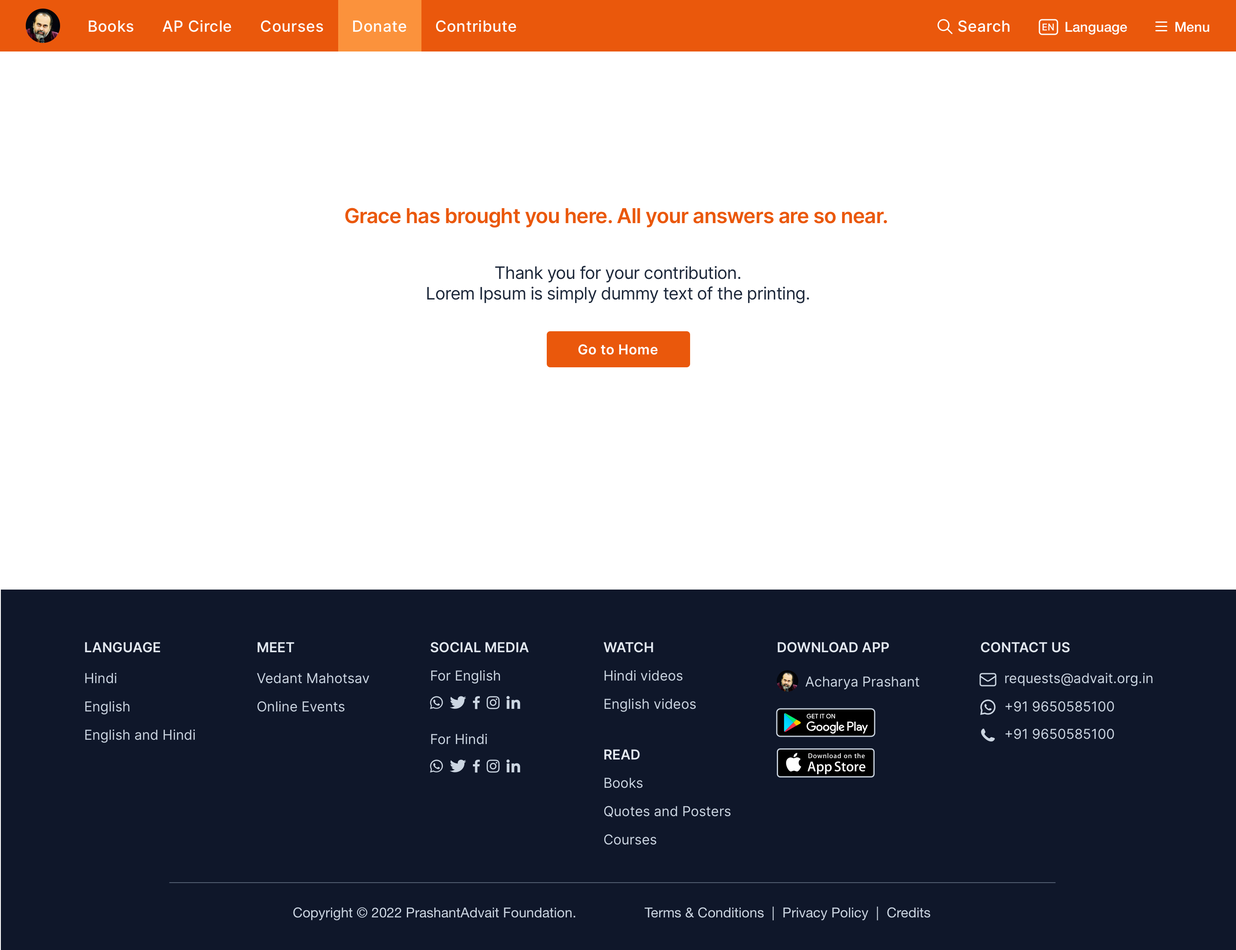
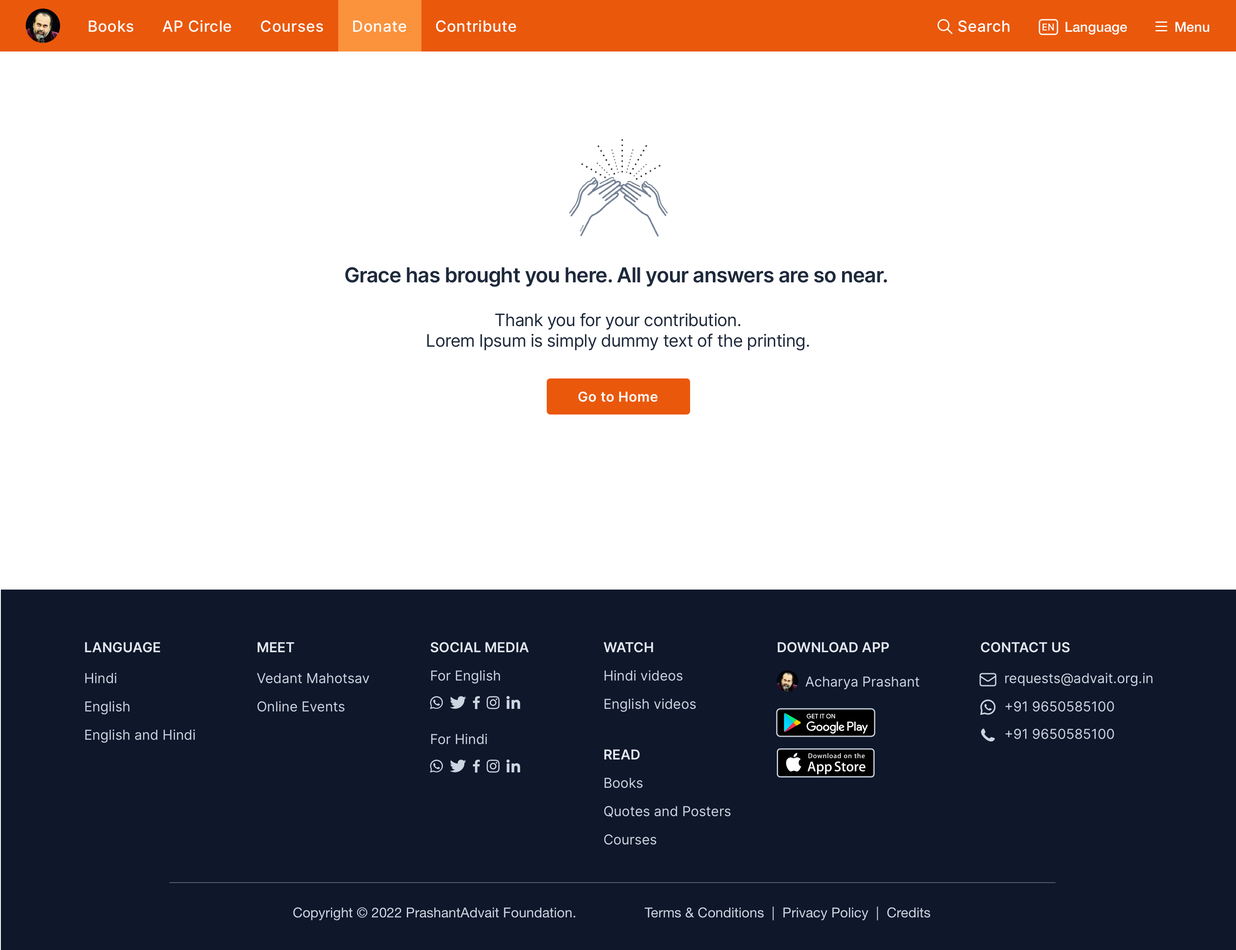
Refactoring donation confirmation page

Changed region(s): [[0.2812, 0.2805, 0.7188, 0.4363], [0.2812, 0.187, 0.7188, 0.2493]]

diff --git a/Website/Projects/Main Website/Desktop/DonationConfirmation/data/handoff.js b/Website/Projects/Main Website/Desktop/DonationConfirmation/data/handoff.js
@@ -1,2 +1,2 @@
 const SYMBOLS_DICT = {};
-const TOKENS_DICT = {};var layersData = [{"ii":0,"tp":"Artboard","nextLinkIndex":0,"artboardType":0,"isModal":false,"disableFixedLayers":false,"overlayOverFixed":false,"overlayAlsoFixed":true,"overlayClosePrevOverlay":false,"transAnimType":0,"overlayByEvent":0,"oldOverlayAlign":0,"overlayPin":0,"overlayPinHotspot":0,"overlayPinPage":0,"index":0,"x":6648,"y":14155,"w":1440,"h":1107,"c":[{"ii":1,"tp":"Group","x":0,"y":0,"w":1440,"h":60,"c":[{"ii":2,"tp":"Group","x":0,"y":0,"w":1440,"h":60,"c":[{"ii":3,"tp":"ShapePath","x":0,"y":0,"w":1440,"h":60,"n":"Rectangle","pr":"background-color: #EA580C;\n"},{"ii":4,"tp":"Group","x":1346,"y":21,"w":64,"h":19,"c":[{"ii":5,"tp":"Text","x":1368,"y":21,"w":42,"h":19,"n":"Menu","tx":"Menu","pr":"font-family: Helvetica Neue;\nfont-size: 16px;\ncolor: #FFFFFF;\ntext-align: center;\nvertical-align: top;\nfont-weight: 500;\n"},{"ii":6,"tp":"ShapePath","x":1346,"y":25,"w":14,"h":11.5,"n":"ic_menu","pr":"background-color: #FFFFFF;\n"}],"n":"Group 3"},{"ii":7,"tp":"Group","x":1211,"y":21,"w":103,"h":19,"c":[{"ii":8,"tp":"Text","x":1240,"y":21,"w":74,"h":19,"n":"Language","tx":"Language","pr":"font-family: Helvetica Neue;\nfont-size: 16px;\ncolor: #FFFFFF;\ntext-align: center;\nvertical-align: top;\nfont-weight: 500;\n"},{"ii":9,"tp":"ShapePath","x":1211,"y":23,"w":21,"h":17,"n":"Rectangle","pr":"border-color: #FFFFFF;\nborder-width: 1.5px;\nborder-radius: 3px;\n"},{"ii":10,"tp":"Text","x":1213.5,"y":24.5,"w":16,"h":14,"n":"EN","tx":"EN","pr":"font-family: SF Compact Display;\nfont-size: 12px;\ncolor: #FFFFFF;\ntext-align: center;\nvertical-align: top;\nfont-weight: 500;\nletter-spacing: 0.244898px;\n"}],"n":"Group 35"},{"ii":11,"tp":"Group","x":1093,"y":20,"w":85.5,"h":21,"c":[{"ii":12,"tp":"ShapePath","x":1093,"y":23,"w":16,"h":16,"n":"Shape","pr":"border-color: #FFFFFF;\nborder-width: 1.5px;\nborder-line-end: round;\nborder-line-join: round;\n"},{"ii":13,"tp":"Text","x":1115.5,"y":20,"w":63,"h":21,"n":"Search","tx":"Search","pr":"font-family: Inter;\nfont-size: 18px;\ncolor: #FFFFFF;\ntext-align: center;\nvertical-align: top;\nfont-weight: 500;\nletter-spacing: 0.3673469px;\n"}],"n":"Group 81"},{"ii":14,"tp":"Group","x":30,"y":10,"w":573,"h":40,"c":[{"ii":15,"tp":"Image","x":30,"y":10,"w":40,"h":40,"c":[{"ii":16,"tp":"ShapePath","x":30,"y":10,"w":40,"h":40,"n":"Mask","pr":"background-color: #071930;\nborder-radius: 96px;\n"},{"ii":17,"tp":"Image","x":30,"y":10,"w":40,"h":40,"n":"Logo Image","hd":true}],"n":"ic_launcher_round","iu":"images/donationconfirmation--0.png"},{"ii":18,"tp":"Text","x":102,"y":20,"w":55,"h":21,"n":"Books","tx":"Books","pr":"font-family: Inter;\nfont-size: 18px;\ncolor: #FFFFFF;\ntext-align: center;\nvertical-align: top;\nfont-weight: 500;\nletter-spacing: 0.3673469px;\n"},{"ii":19,"tp":"Text","x":189,"y":20,"w":82,"h":21,"n":"AP Circle","tx":"AP Circle","pr":"font-family: Inter;\nfont-size: 18px;\ncolor: #FFFFFF;\ntext-align: center;\nvertical-align: top;\nfont-weight: 500;\nletter-spacing: 0.3673469px;\n"},{"ii":20,"tp":"Text","x":303,"y":20,"w":75,"h":21,"n":"Courses","tx":"Courses","pr":"font-family: Inter;\nfont-size: 18px;\ncolor: #FFFFFF;\ntext-align: center;\nvertical-align: top;\nfont-weight: 500;\nletter-spacing: 0.3673469px;\n"},{"ii":21,"tp":"Text","x":507,"y":20,"w":96,"h":21,"n":"Contribute","tx":"Contribute","pr":"font-family: Inter;\nfont-size: 18px;\ncolor: #FFFFFF;\ntext-align: center;\nvertical-align: top;\nfont-weight: 500;\nletter-spacing: 0.3673469px;\n"}],"n":"Group 9"}],"n":"Group 42"}],"n":"Group 5"},{"ii":22,"tp":"ShapePath","x":394,"y":0,"w":97,"h":60,"n":"Rectangle","pr":"background-color: #FB923C;\n"},{"ii":23,"tp":"Text","x":410,"y":20,"w":65,"h":21,"n":"Donate","tx":"Donate","pr":"font-family: Inter;\nfont-size: 18px;\ncolor: #FFFFFF;\ntext-align: center;\nvertical-align: top;\nfont-weight: 500;\nletter-spacing: 0.3673469px;\n"},{"ii":24,"tp":"Text","x":401,"y":237,"w":638,"h":29,"n":"Grace has brought yo","tx":"Grace has brought you here. All your answers are so near.   ","pr":"font-family: Inter;\nfont-size: 24px;\ncolor: #EA580C;\nvertical-align: top;\nfont-weight: 600;\nletter-spacing: -0.5788235px;\n"},{"ii":25,"tp":"Text","x":496,"y":306,"w":448,"h":48,"n":"Thank you for your c","tx":"Thank you for your contribution.\nLorem Ipsum is simply dummy text of the printing.","pr":"font-family: Inter;\nfont-size: 20px;\ncolor: #1E293B;\ntext-align: center;\nvertical-align: top;\nfont-weight: 400;\nletter-spacing: -0.4823529px;\n"},{"ii":26,"tp":"Group","x":637,"y":386,"w":167,"h":42,"c":[{"ii":27,"tp":"ShapePath","x":637,"y":386,"w":167,"h":42,"n":"Rectangle","pr":"background-color: #EA580C;\nborder-radius: 4px;\n"},{"ii":28,"tp":"Text","x":673,"y":397,"w":95,"h":20,"n":"Go to Home","tx":"Go to Home","pr":"font-family: Inter;\nfont-size: 16px;\ncolor: #FFFFFF;\nvertical-align: top;\nfont-weight: 600;\nletter-spacing: 0.3265306px;\n"}],"n":"Group 4"},{"ii":29,"tp":"Group","x":1,"y":687,"w":1440,"h":420,"c":[{"ii":30,"tp":"ShapePath","x":1,"y":687,"w":1440,"h":420,"n":"Rectangle","pr":"background-color: #0F172A;\n"},{"ii":31,"tp":"Group","x":98,"y":744,"w":1246,"h":328,"c":[{"ii":32,"tp":"Group","x":98,"y":744,"w":1246,"h":328,"c":[{"ii":33,"tp":"Text","x":341,"y":1054,"w":335,"h":18,"n":"Copyright © 2022 Pra","tx":"Copyright © 2022 PrashantAdvait Foundation. ","pr":"font-family: Helvetica Neue;\nfont-size: 16px;\ncolor: #CBD5E1;\nvertical-align: top;\nfont-weight: 400;\n"},{"ii":34,"tp":"Text","x":751,"y":1054,"w":334,"h":18,"n":"Terms & Conditions |","tx":"Terms & Conditions  |  Privacy Policy  |  Credits","pr":"font-family: Helvetica Neue;\nfont-size: 16px;\ncolor: #CBD5E1;\nvertical-align: top;\nfont-weight: 400;\n"},{"ii":35,"tp":"Group","x":905,"y":826,"w":114,"h":32,"c":[{"ii":36,"tp":"ShapePath","x":905,"y":826,"w":114,"h":32,"n":"Path","pr":"background-color: #000000;\nborder-color: #CBD5E1;\nborder-width: 1.4px;\n"},{"ii":37,"tp":"ShapePath","x":939.96,"y":831.8649999999998,"w":32.76444444444405,"h":5.270000000000437,"n":"Shape","pr":"background-color: #FFFFFF;\nborder-color: #FFFFFF;\nborder-width: 0.2px;\n"},{"ii":38,"tp":"ShapePath","x":939.7066666666669,"y":840.5349999999999,"w":71.4399999999996,"h":14.364999999999782,"n":"Shape","pr":"background-color: #FFFFFF;\n"},{"ii":39,"tp":"Group","x":913.4444444444443,"y":831.0751120325476,"w":19.46444444444478,"h":21.880150214452442,"c":[{"ii":40,"tp":"ShapePath","x":913.4444444444453,"y":831.375,"w":10.977777777778101,"h":21.25,"n":"Path","pr":"background-color: linear-gradient(242.527deg,#00A0FF 0% ,#00A1FF 0.7000000000000001% ,#00BEFF 26% ,#00D2FF 51.2% ,#00DFFF 76% ,#00E3FF 100%);\n"},{"ii":41,"tp":"ShapePath","x":924.3377777777778,"y":838.4300000000003,"w":8.57111111111135,"h":7.225000000000364,"n":"Path","pr":"background-color: linear-gradient(270.000deg,#FFE000 0% ,#FFBD00 40.9% ,#FFA500 77.5% ,#FF9C00 100%);\n"},{"ii":42,"tp":"ShapePath","x":913.7822222222221,"y":842,"w":14.102222222221826,"h":10.955262246998245,"n":"Path","pr":"background-color: linear-gradient(217.660deg,#FF3A44 0% ,#C31162 100%);\n"},{"ii":43,"tp":"ShapePath","x":913.7822222222221,"y":831.09558343748,"w":14.102222222221826,"h":10.904416562520055,"n":"Path","pr":"background-color: linear-gradient(142.469deg,#32A071 0% ,#2DA771 6.9% ,#15CF74 47.599999999999994% ,#06E775 80.10000000000001% ,#00F076 100%);\n"},{"ii":44,"tp":"ShapePath","x":913.7822222222221,"y":845.4850000000006,"w":14.017777777778065,"h":7.427755025666556,"n":"Path","pr":"background-color: #000000;\nopacity: 0.2;\n"},{"ii":45,"tp":"ShapePath","x":913.4444444444443,"y":842,"w":19.422222222222445,"h":10.540000000000873,"n":"Shape","pr":"background-color: #000000;\nopacity: 0.12;\n"},{"ii":46,"tp":"ShapePath","x":913.4444444444443,"y":831.0751120325476,"w":19.422222222222445,"h":10.924887967454197,"n":"Path","pr":"background-color: #FFFFFF;\nopacity: 0.25;\n"}],"n":"Group 18"}],"n":"ic_googleplay"},{"ii":47,"tp":"Group","x":905.7519621721376,"y":872.7567080947265,"w":112.49185114913962,"h":32.485735392019706,"c":[{"ii":48,"tp":"ShapePath","x":905.7519621721376,"y":872.7567080947265,"w":112.49185114913962,"h":32.485735392019706,"n":"Path","pr":"background-color: #000000;\nborder-color: #CBD5E1;\nborder-width: 1.4px;\n"},{"ii":49,"tp":"ShapePath","x":915.8078968362724,"y":877.2859036234968,"w":17.53685254672746,"h":21.69079558923295,"n":"Shape","pr":"background-color: #FFFFFF;\n"},{"ii":50,"tp":"ShapePath","x":940.8491628806687,"y":877.5715821851009,"w":67.36203491728156,"h":24.522443672010922,"n":"Combined Shape","pr":"background-color: #FFFFFF;\n"}],"n":"ic_appstotre"},{"ii":51,"tp":"Text","x":703,"y":777,"w":94,"h":20,"n":"Hindi videos","tx":"Hindi videos","pr":"font-family: Inter;\nfont-size: 16px;\ncolor: #CBD5E1;\nvertical-align: top;\nfont-weight: 400;\n"},{"ii":52,"tp":"Group","x":905,"y":781,"w":167,"h":25,"c":[{"ii":53,"tp":"Text","x":938,"y":784,"w":134,"h":20,"n":"Acharya Prashant","tx":"Acharya Prashant","pr":"font-family: Inter;\nfont-size: 16px;\ncolor: #CBD5E1;\nvertical-align: top;\nfont-weight: 400;\n"},{"ii":54,"tp":"Image","x":905,"y":781,"w":25,"h":25,"c":[{"ii":55,"tp":"ShapePath","x":905,"y":781,"w":25,"h":25,"n":"Mask","pr":"background-color: #071930;\nborder-radius: 12.48px;\n"},{"ii":56,"tp":"Image","x":905,"y":781,"w":25,"h":25,"n":"Logo Image","hd":true}],"n":"ic_aplogo_image","iu":"images/donationconfirmation--1.png"}],"n":"Group 16"},{"ii":57,"tp":"Text","x":703,"y":902,"w":47,"h":20,"n":"Books","tx":"Books","pr":"font-family: Inter;\nfont-size: 16px;\ncolor: #CBD5E1;\nvertical-align: top;\nfont-weight: 400;\n"},{"ii":58,"tp":"Text","x":703,"y":935,"w":150,"h":20,"n":"Quotes and Posters","tx":"Quotes and Posters","pr":"font-family: Inter;\nfont-size: 16px;\ncolor: #CBD5E1;\nvertical-align: top;\nfont-weight: 400;\n"},{"ii":59,"tp":"Text","x":703,"y":968,"w":63,"h":20,"n":"Courses","tx":"Courses","pr":"font-family: Inter;\nfont-size: 16px;\ncolor: #CBD5E1;\nvertical-align: top;\nfont-weight: 400;\n"},{"ii":60,"tp":"Text","x":703,"y":810,"w":109,"h":20,"n":"English videos","tx":"English videos","pr":"font-family: Inter;\nfont-size: 16px;\ncolor: #CBD5E1;\nvertical-align: top;\nfont-weight: 400;\n"},{"ii":61,"tp":"Group","x":501,"y":811,"w":105.00000000184264,"h":15.238484611703825,"c":[{"ii":62,"tp":"ShapePath","x":551,"y":811.238484611702,"w":8,"h":15,"n":"Path","pr":"background-color: #CBD5E1;\n"},{"ii":63,"tp":"ShapePath","x":501,"y":811.238484611702,"w":15,"h":15,"n":"Combined Shape","pr":"background-color: #CBD5E1;\n"},{"ii":64,"tp":"ShapePath","x":567,"y":811.238484611702,"w":15,"h":15,"n":"Combined Shape","pr":"background-color: #CBD5E1;\n"},{"ii":65,"tp":"ShapePath","x":523.9999999999991,"y":811.2384846117038,"w":19.066666666666606,"h":14.66666666666606,"n":"Combined Shape","pr":"background-color: #CBD5E1;\n"},{"ii":66,"tp":"ShapePath","x":590.0000000018426,"y":811,"w":16,"h":15,"n":"Combined Shape","pr":"background-color: #CBD5E1;\n"}],"n":"Group 13"},{"ii":67,"tp":"Group","x":501,"y":885,"w":105.00000000184264,"h":15.238484611703825,"c":[{"ii":68,"tp":"ShapePath","x":551,"y":885.238484611702,"w":8,"h":15,"n":"Path Copy","pr":"background-color: #CBD5E1;\n"},{"ii":69,"tp":"ShapePath","x":501,"y":885.238484611702,"w":15,"h":15,"n":"Combined Shape","pr":"background-color: #CBD5E1;\n"},{"ii":70,"tp":"ShapePath","x":567,"y":885.238484611702,"w":15,"h":15,"n":"Combined Shape","pr":"background-color: #CBD5E1;\n"},{"ii":71,"tp":"ShapePath","x":523.9999999999991,"y":885.2384846117038,"w":19.066666666666606,"h":14.66666666666606,"n":"Combined Shape","pr":"background-color: #CBD5E1;\n"},{"ii":72,"tp":"ShapePath","x":590.0000000018426,"y":885,"w":16,"h":15,"n":"Combined Shape","pr":"background-color: #CBD5E1;\n"}],"n":"Group 14"},{"ii":73,"tp":"Text","x":98,"y":744,"w":90,"h":20,"n":"LANGUAGE","tx":"LANGUAGE","pr":"font-family: Inter;\nfont-size: 16px;\ncolor: #E2E8F0;\nvertical-align: top;\nfont-weight: 600;\n"},{"ii":74,"tp":"Text","x":299,"y":744,"w":45,"h":20,"n":"meet","tx":"meet","pr":"font-family: Inter;\nfont-size: 16px;\ncolor: #E2E8F0;\nvertical-align: top;\nfont-weight: 600;\ntext-transform: uppercase;\n"},{"ii":75,"tp":"Text","x":501,"y":744,"w":116,"h":20,"n":"Social media","tx":"Social media","pr":"font-family: Inter;\nfont-size: 16px;\ncolor: #E2E8F0;\nvertical-align: top;\nfont-weight: 600;\ntext-transform: uppercase;\n"},{"ii":76,"tp":"Text","x":703,"y":744,"w":60,"h":20,"n":"watch","tx":"watch","pr":"font-family: Inter;\nfont-size: 16px;\ncolor: #E2E8F0;\nvertical-align: top;\nfont-weight: 600;\ntext-transform: uppercase;\n"},{"ii":77,"tp":"Text","x":905,"y":744,"w":132,"h":20,"n":"Download App","tx":"Download App","pr":"font-family: Inter;\nfont-size: 16px;\ncolor: #E2E8F0;\nvertical-align: top;\nfont-weight: 600;\ntext-transform: uppercase;\n"},{"ii":78,"tp":"Text","x":1142,"y":744,"w":105,"h":20,"n":"Contact us","tx":"Contact us","pr":"font-family: Inter;\nfont-size: 16px;\ncolor: #E2E8F0;\nvertical-align: top;\nfont-weight: 600;\ntext-transform: uppercase;\n"},{"ii":79,"tp":"Text","x":1170,"y":780,"w":174,"h":20,"n":"requests@advait.org.","tx":"requests@advait.org.in","pr":"font-family: Inter;\nfont-size: 16px;\ncolor: #CBD5E1;\nvertical-align: top;\nfont-weight: 400;\n"},{"ii":80,"tp":"Text","x":1170,"y":813,"w":129,"h":20,"n":"+91 9650585100","tx":"+91 9650585100","pr":"font-family: Inter;\nfont-size: 16px;\ncolor: #CBD5E1;\nvertical-align: top;\nfont-weight: 400;\n"},{"ii":81,"tp":"Text","x":1170,"y":845,"w":129,"h":20,"n":"+91 9650585100","tx":"+91 9650585100","pr":"font-family: Inter;\nfont-size: 16px;\ncolor: #CBD5E1;\nvertical-align: top;\nfont-weight: 400;\n"},{"ii":82,"tp":"Text","x":703,"y":869,"w":44,"h":20,"n":"Read","tx":"Read","pr":"font-family: Inter;\nfont-size: 16px;\ncolor: #E2E8F0;\nvertical-align: top;\nfont-weight: 600;\ntext-transform: uppercase;\n"},{"ii":83,"tp":"Text","x":299,"y":780,"w":132,"h":20,"n":"Vedant Mahotsav","tx":"Vedant Mahotsav","pr":"font-family: Inter;\nfont-size: 16px;\ncolor: #CBD5E1;\nvertical-align: top;\nfont-weight: 400;\n"},{"ii":84,"tp":"Text","x":501,"y":777,"w":83,"h":20,"n":"For English","tx":"For English","pr":"font-family: Inter;\nfont-size: 16px;\ncolor: #CBD5E1;\nvertical-align: top;\nfont-weight: 400;\n"},{"ii":85,"tp":"Text","x":501,"y":851,"w":68,"h":20,"n":"For Hindi","tx":"For Hindi","pr":"font-family: Inter;\nfont-size: 16px;\ncolor: #CBD5E1;\nvertical-align: top;\nfont-weight: 400;\n"},{"ii":86,"tp":"Text","x":299,"y":813,"w":104,"h":20,"n":"Online Events","tx":"Online Events","pr":"font-family: Inter;\nfont-size: 16px;\ncolor: #CBD5E1;\nvertical-align: top;\nfont-weight: 400;\n"},{"ii":87,"tp":"Text","x":98,"y":780,"w":39,"h":20,"n":"Hindi","tx":"Hindi","pr":"font-family: Inter;\nfont-size: 16px;\ncolor: #CBD5E1;\nvertical-align: top;\nfont-weight: 400;\n"},{"ii":88,"tp":"Text","x":98,"y":813,"w":55,"h":20,"n":"English","tx":"English","pr":"font-family: Inter;\nfont-size: 16px;\ncolor: #CBD5E1;\nvertical-align: top;\nfont-weight: 400;\n"},{"ii":89,"tp":"Text","x":98,"y":846,"w":131,"h":20,"n":"English and Hindi","tx":"English and Hindi","pr":"font-family: Inter;\nfont-size: 16px;\ncolor: #CBD5E1;\nvertical-align: top;\nfont-weight: 400;\n"},{"ii":90,"tp":"ShapePath","x":197,"y":1028,"w":1033,"h":1,"n":"Line 6","pr":"border-color: #94A3B8;\nborder-width: 0.5px;\nborder-line-end: projecting;\n"}],"n":"Group 22"},{"ii":91,"tp":"Group","x":1143,"y":816,"w":16,"h":16,"c":[{"ii":92,"tp":"ShapePath","x":1143,"y":816,"w":16,"h":16,"n":"Path","pr":"border-color: #CBD5E1;\nborder-width: 1.714285714285714px;\n"},{"ii":93,"tp":"ShapePath","x":1146.9693066363461,"y":820.1344062446842,"w":8.33154714849752,"h":7.731538094270945,"n":"Path","pr":"background-color: #CBD5E1;\n"}],"n":"Group 18"},{"ii":94,"tp":"ShapePath","x":1143,"y":849,"w":16,"h":15,"n":"Path","pr":"background-color: #CBD5E1;\n"},{"ii":95,"tp":"Group","x":1142,"y":785,"w":18,"h":14,"c":[{"ii":96,"tp":"ShapePath","x":1142,"y":788,"w":18,"h":5.596325000000434,"n":"Path","pr":"border-color: #CBD5E1;\nborder-width: 1.5px;\nborder-line-end: round;\nborder-line-join: round;\n"},{"ii":97,"tp":"ShapePath","x":1142,"y":785,"w":18,"h":14,"n":"Path","pr":"border-color: #CBD5E1;\nborder-width: 1.5px;\nborder-line-end: round;\nborder-line-join: round;\n"}],"n":"Group 13"}],"n":"Group 12"}],"n":"Group 11"}],"n":"DonationConfirmation"}]
+const TOKENS_DICT = {};var layersData = [{"ii":0,"tp":"Artboard","nextLinkIndex":0,"artboardType":0,"isModal":false,"disableFixedLayers":false,"overlayOverFixed":false,"overlayAlsoFixed":true,"overlayClosePrevOverlay":false,"transAnimType":0,"overlayByEvent":0,"oldOverlayAlign":0,"overlayPin":0,"overlayPinHotspot":0,"overlayPinPage":0,"index":0,"x":6648,"y":14155,"w":1440,"h":1107,"c":[{"ii":1,"tp":"Group","x":0,"y":0,"w":1440,"h":60,"c":[{"ii":2,"tp":"Group","x":0,"y":0,"w":1440,"h":60,"c":[{"ii":3,"tp":"ShapePath","x":0,"y":0,"w":1440,"h":60,"n":"Rectangle","pr":"background-color: #EA580C;\n"},{"ii":4,"tp":"Group","x":1346,"y":21,"w":64,"h":19,"c":[{"ii":5,"tp":"Text","x":1368,"y":21,"w":42,"h":19,"n":"Menu","tx":"Menu","pr":"font-family: Helvetica Neue;\nfont-size: 16px;\ncolor: #FFFFFF;\ntext-align: center;\nvertical-align: top;\nfont-weight: 500;\n"},{"ii":6,"tp":"ShapePath","x":1346,"y":25,"w":14,"h":11.5,"n":"ic_menu","pr":"background-color: #FFFFFF;\n"}],"n":"Group 3"},{"ii":7,"tp":"Group","x":1211,"y":21,"w":103,"h":19,"c":[{"ii":8,"tp":"Text","x":1240,"y":21,"w":74,"h":19,"n":"Language","tx":"Language","pr":"font-family: Helvetica Neue;\nfont-size: 16px;\ncolor: #FFFFFF;\ntext-align: center;\nvertical-align: top;\nfont-weight: 500;\n"},{"ii":9,"tp":"ShapePath","x":1211,"y":23,"w":21,"h":17,"n":"Rectangle","pr":"border-color: #FFFFFF;\nborder-width: 1.5px;\nborder-radius: 3px;\n"},{"ii":10,"tp":"Text","x":1213.5,"y":24.5,"w":16,"h":14,"n":"EN","tx":"EN","pr":"font-family: SF Compact Display;\nfont-size: 12px;\ncolor: #FFFFFF;\ntext-align: center;\nvertical-align: top;\nfont-weight: 500;\nletter-spacing: 0.244898px;\n"}],"n":"Group 35"},{"ii":11,"tp":"Group","x":1093,"y":20,"w":85.5,"h":21,"c":[{"ii":12,"tp":"ShapePath","x":1093,"y":23,"w":16,"h":16,"n":"Shape","pr":"border-color: #FFFFFF;\nborder-width: 1.5px;\nborder-line-end: round;\nborder-line-join: round;\n"},{"ii":13,"tp":"Text","x":1115.5,"y":20,"w":63,"h":21,"n":"Search","tx":"Search","pr":"font-family: Inter;\nfont-size: 18px;\ncolor: #FFFFFF;\ntext-align: center;\nvertical-align: top;\nfont-weight: 500;\nletter-spacing: 0.3673469px;\n"}],"n":"Group 81"},{"ii":14,"tp":"Group","x":30,"y":10,"w":573,"h":40,"c":[{"ii":15,"tp":"Image","x":30,"y":10,"w":40,"h":40,"c":[{"ii":16,"tp":"ShapePath","x":30,"y":10,"w":40,"h":40,"n":"Mask","pr":"background-color: #071930;\nborder-radius: 96px;\n"},{"ii":17,"tp":"Image","x":30,"y":10,"w":40,"h":40,"n":"Logo Image","hd":true}],"n":"ic_launcher_round","iu":"images/donationconfirmation--0.png"},{"ii":18,"tp":"Text","x":102,"y":20,"w":55,"h":21,"n":"Books","tx":"Books","pr":"font-family: Inter;\nfont-size: 18px;\ncolor: #FFFFFF;\ntext-align: center;\nvertical-align: top;\nfont-weight: 500;\nletter-spacing: 0.3673469px;\n"},{"ii":19,"tp":"Text","x":189,"y":20,"w":82,"h":21,"n":"AP Circle","tx":"AP Circle","pr":"font-family: Inter;\nfont-size: 18px;\ncolor: #FFFFFF;\ntext-align: center;\nvertical-align: top;\nfont-weight: 500;\nletter-spacing: 0.3673469px;\n"},{"ii":20,"tp":"Text","x":303,"y":20,"w":75,"h":21,"n":"Courses","tx":"Courses","pr":"font-family: Inter;\nfont-size: 18px;\ncolor: #FFFFFF;\ntext-align: center;\nvertical-align: top;\nfont-weight: 500;\nletter-spacing: 0.3673469px;\n"},{"ii":21,"tp":"Text","x":507,"y":20,"w":96,"h":21,"n":"Contribute","tx":"Contribute","pr":"font-family: Inter;\nfont-size: 18px;\ncolor: #FFFFFF;\ntext-align: center;\nvertical-align: top;\nfont-weight: 500;\nletter-spacing: 0.3673469px;\n"}],"n":"Group 9"}],"n":"Group 42"}],"n":"Group 5"},{"ii":22,"tp":"ShapePath","x":394,"y":0,"w":97,"h":60,"n":"Rectangle","pr":"background-color: #FB923C;\n"},{"ii":23,"tp":"Text","x":410,"y":20,"w":65,"h":21,"n":"Donate","tx":"Donate","pr":"font-family: Inter;\nfont-size: 18px;\ncolor: #FFFFFF;\ntext-align: center;\nvertical-align: top;\nfont-weight: 500;\nletter-spacing: 0.3673469px;\n"},{"ii":24,"tp":"Text","x":401,"y":306,"w":638,"h":29,"n":"Grace has brought yo","tx":"Grace has brought you here. All your answers are so near.   ","pr":"font-family: Inter;\nfont-size: 24px;\ncolor: #1E293B;\nvertical-align: top;\nfont-weight: 600;\nletter-spacing: -0.5788235px;\n"},{"ii":25,"tp":"Text","x":496,"y":361,"w":448,"h":48,"n":"Thank you for your c","tx":"Thank you for your contribution.\nLorem Ipsum is simply dummy text of the printing.","pr":"font-family: Inter;\nfont-size: 20px;\ncolor: #1E293B;\ntext-align: center;\nvertical-align: top;\nfont-weight: 400;\nletter-spacing: -0.4823529px;\n"},{"ii":26,"tp":"Group","x":637,"y":441,"w":167,"h":42,"c":[{"ii":27,"tp":"ShapePath","x":637,"y":441,"w":167,"h":42,"n":"Rectangle","pr":"background-color: #EA580C;\nborder-radius: 4px;\n"},{"ii":28,"tp":"Text","x":673,"y":452,"w":95,"h":20,"n":"Go to Home","tx":"Go to Home","pr":"font-family: Inter;\nfont-size: 16px;\ncolor: #FFFFFF;\nvertical-align: top;\nfont-weight: 600;\nletter-spacing: 0.3265306px;\n"}],"n":"Group 4"},{"ii":29,"tp":"Group","x":1,"y":687,"w":1440,"h":420,"c":[{"ii":30,"tp":"ShapePath","x":1,"y":687,"w":1440,"h":420,"n":"Rectangle","pr":"background-color: #0F172A;\n"},{"ii":31,"tp":"Group","x":98,"y":744,"w":1246,"h":328,"c":[{"ii":32,"tp":"Group","x":98,"y":744,"w":1246,"h":328,"c":[{"ii":33,"tp":"Text","x":341,"y":1054,"w":335,"h":18,"n":"Copyright © 2022 Pra","tx":"Copyright © 2022 PrashantAdvait Foundation. ","pr":"font-family: Helvetica Neue;\nfont-size: 16px;\ncolor: #CBD5E1;\nvertical-align: top;\nfont-weight: 400;\n"},{"ii":34,"tp":"Text","x":751,"y":1054,"w":334,"h":18,"n":"Terms & Conditions |","tx":"Terms & Conditions  |  Privacy Policy  |  Credits","pr":"font-family: Helvetica Neue;\nfont-size: 16px;\ncolor: #CBD5E1;\nvertical-align: top;\nfont-weight: 400;\n"},{"ii":35,"tp":"Group","x":905,"y":826,"w":114,"h":32,"c":[{"ii":36,"tp":"ShapePath","x":905,"y":826,"w":114,"h":32,"n":"Path","pr":"background-color: #000000;\nborder-color: #CBD5E1;\nborder-width: 1.4px;\n"},{"ii":37,"tp":"ShapePath","x":939.96,"y":831.8649999999998,"w":32.76444444444405,"h":5.270000000000437,"n":"Shape","pr":"background-color: #FFFFFF;\nborder-color: #FFFFFF;\nborder-width: 0.2px;\n"},{"ii":38,"tp":"ShapePath","x":939.7066666666669,"y":840.5349999999999,"w":71.4399999999996,"h":14.364999999999782,"n":"Shape","pr":"background-color: #FFFFFF;\n"},{"ii":39,"tp":"Group","x":913.4444444444443,"y":831.0751120325476,"w":19.46444444444478,"h":21.880150214452442,"c":[{"ii":40,"tp":"ShapePath","x":913.4444444444453,"y":831.375,"w":10.977777777778101,"h":21.25,"n":"Path","pr":"background-color: linear-gradient(242.527deg,#00A0FF 0% ,#00A1FF 0.7000000000000001% ,#00BEFF 26% ,#00D2FF 51.2% ,#00DFFF 76% ,#00E3FF 100%);\n"},{"ii":41,"tp":"ShapePath","x":924.3377777777778,"y":838.4300000000003,"w":8.57111111111135,"h":7.225000000000364,"n":"Path","pr":"background-color: linear-gradient(270.000deg,#FFE000 0% ,#FFBD00 40.9% ,#FFA500 77.5% ,#FF9C00 100%);\n"},{"ii":42,"tp":"ShapePath","x":913.7822222222221,"y":842,"w":14.102222222221826,"h":10.955262246998245,"n":"Path","pr":"background-color: linear-gradient(217.660deg,#FF3A44 0% ,#C31162 100%);\n"},{"ii":43,"tp":"ShapePath","x":913.7822222222221,"y":831.09558343748,"w":14.102222222221826,"h":10.904416562520055,"n":"Path","pr":"background-color: linear-gradient(142.469deg,#32A071 0% ,#2DA771 6.9% ,#15CF74 47.599999999999994% ,#06E775 80.10000000000001% ,#00F076 100%);\n"},{"ii":44,"tp":"ShapePath","x":913.7822222222221,"y":845.4850000000006,"w":14.017777777778065,"h":7.427755025666556,"n":"Path","pr":"background-color: #000000;\nopacity: 0.2;\n"},{"ii":45,"tp":"ShapePath","x":913.4444444444443,"y":842,"w":19.422222222222445,"h":10.540000000000873,"n":"Shape","pr":"background-color: #000000;\nopacity: 0.12;\n"},{"ii":46,"tp":"ShapePath","x":913.4444444444443,"y":831.0751120325476,"w":19.422222222222445,"h":10.924887967454197,"n":"Path","pr":"background-color: #FFFFFF;\nopacity: 0.25;\n"}],"n":"Group 18"}],"n":"ic_googleplay"},{"ii":47,"tp":"Group","x":905.7519621721376,"y":872.7567080947265,"w":112.49185114913962,"h":32.485735392019706,"c":[{"ii":48,"tp":"ShapePath","x":905.7519621721376,"y":872.7567080947265,"w":112.49185114913962,"h":32.485735392019706,"n":"Path","pr":"background-color: #000000;\nborder-color: #CBD5E1;\nborder-width: 1.4px;\n"},{"ii":49,"tp":"ShapePath","x":915.8078968362724,"y":877.2859036234968,"w":17.53685254672746,"h":21.69079558923295,"n":"Shape","pr":"background-color: #FFFFFF;\n"},{"ii":50,"tp":"ShapePath","x":940.8491628806687,"y":877.5715821851009,"w":67.36203491728156,"h":24.522443672010922,"n":"Combined Shape","pr":"background-color: #FFFFFF;\n"}],"n":"ic_appstotre"},{"ii":51,"tp":"Text","x":703,"y":777,"w":94,"h":20,"n":"Hindi videos","tx":"Hindi videos","pr":"font-family: Inter;\nfont-size: 16px;\ncolor: #CBD5E1;\nvertical-align: top;\nfont-weight: 400;\n"},{"ii":52,"tp":"Group","x":905,"y":781,"w":167,"h":25,"c":[{"ii":53,"tp":"Text","x":938,"y":784,"w":134,"h":20,"n":"Acharya Prashant","tx":"Acharya Prashant","pr":"font-family: Inter;\nfont-size: 16px;\ncolor: #CBD5E1;\nvertical-align: top;\nfont-weight: 400;\n"},{"ii":54,"tp":"Image","x":905,"y":781,"w":25,"h":25,"c":[{"ii":55,"tp":"ShapePath","x":905,"y":781,"w":25,"h":25,"n":"Mask","pr":"background-color: #071930;\nborder-radius: 12.48px;\n"},{"ii":56,"tp":"Image","x":905,"y":781,"w":25,"h":25,"n":"Logo Image","hd":true}],"n":"ic_aplogo_image","iu":"images/donationconfirmation--1.png"}],"n":"Group 16"},{"ii":57,"tp":"Text","x":703,"y":902,"w":47,"h":20,"n":"Books","tx":"Books","pr":"font-family: Inter;\nfont-size: 16px;\ncolor: #CBD5E1;\nvertical-align: top;\nfont-weight: 400;\n"},{"ii":58,"tp":"Text","x":703,"y":935,"w":150,"h":20,"n":"Quotes and Posters","tx":"Quotes and Posters","pr":"font-family: Inter;\nfont-size: 16px;\ncolor: #CBD5E1;\nvertical-align: top;\nfont-weight: 400;\n"},{"ii":59,"tp":"Text","x":703,"y":968,"w":63,"h":20,"n":"Courses","tx":"Courses","pr":"font-family: Inter;\nfont-size: 16px;\ncolor: #CBD5E1;\nvertical-align: top;\nfont-weight: 400;\n"},{"ii":60,"tp":"Text","x":703,"y":810,"w":109,"h":20,"n":"English videos","tx":"English videos","pr":"font-family: Inter;\nfont-size: 16px;\ncolor: #CBD5E1;\nvertical-align: top;\nfont-weight: 400;\n"},{"ii":61,"tp":"Group","x":501,"y":811,"w":105.00000000184264,"h":15.238484611703825,"c":[{"ii":62,"tp":"ShapePath","x":551,"y":811.238484611702,"w":8,"h":15,"n":"Path","pr":"background-color: #CBD5E1;\n"},{"ii":63,"tp":"ShapePath","x":501,"y":811.238484611702,"w":15,"h":15,"n":"Combined Shape","pr":"background-color: #CBD5E1;\n"},{"ii":64,"tp":"ShapePath","x":567,"y":811.238484611702,"w":15,"h":15,"n":"Combined Shape","pr":"background-color: #CBD5E1;\n"},{"ii":65,"tp":"ShapePath","x":523.9999999999991,"y":811.2384846117038,"w":19.066666666666606,"h":14.66666666666606,"n":"Combined Shape","pr":"background-color: #CBD5E1;\n"},{"ii":66,"tp":"ShapePath","x":590.0000000018426,"y":811,"w":16,"h":15,"n":"Combined Shape","pr":"background-color: #CBD5E1;\n"}],"n":"Group 13"},{"ii":67,"tp":"Group","x":501,"y":885,"w":105.00000000184264,"h":15.238484611703825,"c":[{"ii":68,"tp":"ShapePath","x":551,"y":885.238484611702,"w":8,"h":15,"n":"Path Copy","pr":"background-color: #CBD5E1;\n"},{"ii":69,"tp":"ShapePath","x":501,"y":885.238484611702,"w":15,"h":15,"n":"Combined Shape","pr":"background-color: #CBD5E1;\n"},{"ii":70,"tp":"ShapePath","x":567,"y":885.238484611702,"w":15,"h":15,"n":"Combined Shape","pr":"background-color: #CBD5E1;\n"},{"ii":71,"tp":"ShapePath","x":523.9999999999991,"y":885.2384846117038,"w":19.066666666666606,"h":14.66666666666606,"n":"Combined Shape","pr":"background-color: #CBD5E1;\n"},{"ii":72,"tp":"ShapePath","x":590.0000000018426,"y":885,"w":16,"h":15,"n":"Combined Shape","pr":"background-color: #CBD5E1;\n"}],"n":"Group 14"},{"ii":73,"tp":"Text","x":98,"y":744,"w":90,"h":20,"n":"LANGUAGE","tx":"LANGUAGE","pr":"font-family: Inter;\nfont-size: 16px;\ncolor: #E2E8F0;\nvertical-align: top;\nfont-weight: 600;\n"},{"ii":74,"tp":"Text","x":299,"y":744,"w":45,"h":20,"n":"meet","tx":"meet","pr":"font-family: Inter;\nfont-size: 16px;\ncolor: #E2E8F0;\nvertical-align: top;\nfont-weight: 600;\ntext-transform: uppercase;\n"},{"ii":75,"tp":"Text","x":501,"y":744,"w":116,"h":20,"n":"Social media","tx":"Social media","pr":"font-family: Inter;\nfont-size: 16px;\ncolor: #E2E8F0;\nvertical-align: top;\nfont-weight: 600;\ntext-transform: uppercase;\n"},{"ii":76,"tp":"Text","x":703,"y":744,"w":60,"h":20,"n":"watch","tx":"watch","pr":"font-family: Inter;\nfont-size: 16px;\ncolor: #E2E8F0;\nvertical-align: top;\nfont-weight: 600;\ntext-transform: uppercase;\n"},{"ii":77,"tp":"Text","x":905,"y":744,"w":132,"h":20,"n":"Download App","tx":"Download App","pr":"font-family: Inter;\nfont-size: 16px;\ncolor: #E2E8F0;\nvertical-align: top;\nfont-weight: 600;\ntext-transform: uppercase;\n"},{"ii":78,"tp":"Text","x":1142,"y":744,"w":105,"h":20,"n":"Contact us","tx":"Contact us","pr":"font-family: Inter;\nfont-size: 16px;\ncolor: #E2E8F0;\nvertical-align: top;\nfont-weight: 600;\ntext-transform: uppercase;\n"},{"ii":79,"tp":"Text","x":1170,"y":780,"w":174,"h":20,"n":"requests@advait.org.","tx":"requests@advait.org.in","pr":"font-family: Inter;\nfont-size: 16px;\ncolor: #CBD5E1;\nvertical-align: top;\nfont-weight: 400;\n"},{"ii":80,"tp":"Text","x":1170,"y":813,"w":129,"h":20,"n":"+91 9650585100","tx":"+91 9650585100","pr":"font-family: Inter;\nfont-size: 16px;\ncolor: #CBD5E1;\nvertical-align: top;\nfont-weight: 400;\n"},{"ii":81,"tp":"Text","x":1170,"y":845,"w":129,"h":20,"n":"+91 9650585100","tx":"+91 9650585100","pr":"font-family: Inter;\nfont-size: 16px;\ncolor: #CBD5E1;\nvertical-align: top;\nfont-weight: 400;\n"},{"ii":82,"tp":"Text","x":703,"y":869,"w":44,"h":20,"n":"Read","tx":"Read","pr":"font-family: Inter;\nfont-size: 16px;\ncolor: #E2E8F0;\nvertical-align: top;\nfont-weight: 600;\ntext-transform: uppercase;\n"},{"ii":83,"tp":"Text","x":299,"y":780,"w":132,"h":20,"n":"Vedant Mahotsav","tx":"Vedant Mahotsav","pr":"font-family: Inter;\nfont-size: 16px;\ncolor: #CBD5E1;\nvertical-align: top;\nfont-weight: 400;\n"},{"ii":84,"tp":"Text","x":501,"y":777,"w":83,"h":20,"n":"For English","tx":"For English","pr":"font-family: Inter;\nfont-size: 16px;\ncolor: #CBD5E1;\nvertical-align: top;\nfont-weight: 400;\n"},{"ii":85,"tp":"Text","x":501,"y":851,"w":68,"h":20,"n":"For Hindi","tx":"For Hindi","pr":"font-family: Inter;\nfont-size: 16px;\ncolor: #CBD5E1;\nvertical-align: top;\nfont-weight: 400;\n"},{"ii":86,"tp":"Text","x":299,"y":813,"w":104,"h":20,"n":"Online Events","tx":"Online Events","pr":"font-family: Inter;\nfont-size: 16px;\ncolor: #CBD5E1;\nvertical-align: top;\nfont-weight: 400;\n"},{"ii":87,"tp":"Text","x":98,"y":780,"w":39,"h":20,"n":"Hindi","tx":"Hindi","pr":"font-family: Inter;\nfont-size: 16px;\ncolor: #CBD5E1;\nvertical-align: top;\nfont-weight: 400;\n"},{"ii":88,"tp":"Text","x":98,"y":813,"w":55,"h":20,"n":"English","tx":"English","pr":"font-family: Inter;\nfont-size: 16px;\ncolor: #CBD5E1;\nvertical-align: top;\nfont-weight: 400;\n"},{"ii":89,"tp":"Text","x":98,"y":846,"w":131,"h":20,"n":"English and Hindi","tx":"English and Hindi","pr":"font-family: Inter;\nfont-size: 16px;\ncolor: #CBD5E1;\nvertical-align: top;\nfont-weight: 400;\n"},{"ii":90,"tp":"ShapePath","x":197,"y":1028,"w":1033,"h":1,"n":"Line 6","pr":"border-color: #94A3B8;\nborder-width: 0.5px;\nborder-line-end: projecting;\n"}],"n":"Group 22"},{"ii":91,"tp":"Group","x":1143,"y":816,"w":16,"h":16,"c":[{"ii":92,"tp":"ShapePath","x":1143,"y":816,"w":16,"h":16,"n":"Path","pr":"border-color: #CBD5E1;\nborder-width: 1.714285714285714px;\n"},{"ii":93,"tp":"ShapePath","x":1146.9693066363461,"y":820.1344062446842,"w":8.33154714849752,"h":7.731538094270945,"n":"Path","pr":"background-color: #CBD5E1;\n"}],"n":"Group 18"},{"ii":94,"tp":"ShapePath","x":1143,"y":849,"w":16,"h":15,"n":"Path","pr":"background-color: #CBD5E1;\n"},{"ii":95,"tp":"Group","x":1142,"y":785,"w":18,"h":14,"c":[{"ii":96,"tp":"ShapePath","x":1142,"y":788,"w":18,"h":5.596325000000434,"n":"Path","pr":"border-color: #CBD5E1;\nborder-width: 1.5px;\nborder-line-end: round;\nborder-line-join: round;\n"},{"ii":97,"tp":"ShapePath","x":1142,"y":785,"w":18,"h":14,"n":"Path","pr":"border-color: #CBD5E1;\nborder-width: 1.5px;\nborder-line-end: round;\nborder-line-join: round;\n"}],"n":"Group 13"}],"n":"Group 12"}],"n":"Group 11"},{"ii":98,"tp":"Image","x":663,"y":162,"w":115,"h":114,"n":"3819212-200","iu":"images/donationconfirmation--2.png"}],"n":"DonationConfirmation"}]
